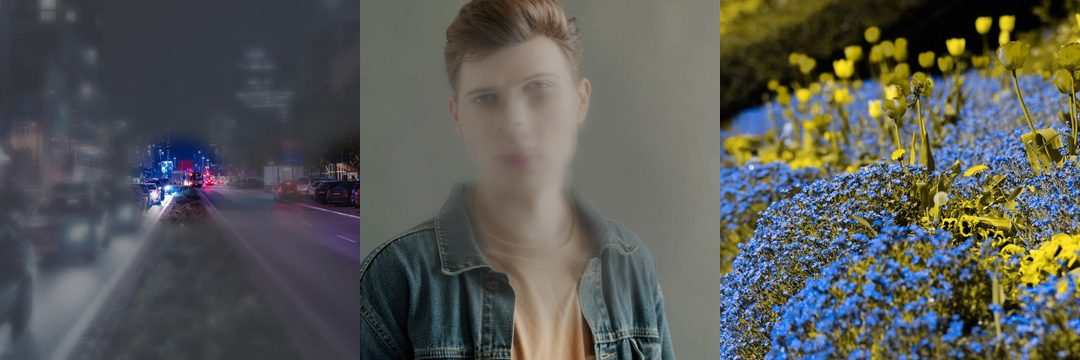
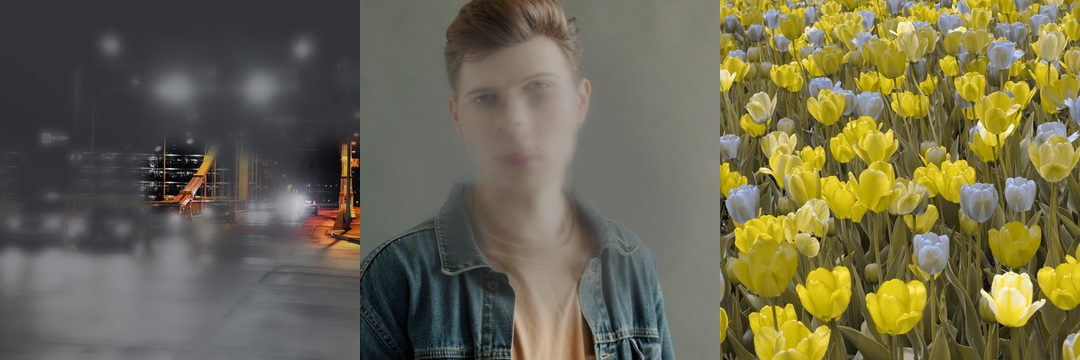
Vision Simulator UI v2: new Night Street and Color Garden samples, About credits
- night-street.jpg: "Road Lights" by Justin Hamilton (StockSnap, CC0), 2376x1584
- garden.jpg: "A Field of Tulips" by alex ohan (Pexels License), 2400x1600
- Sharp edge to edge (no soft tiles on a 6x4 Laplacian grid); replaces the half-blurry garden
- Dedicated 120x96 sample thumbnails; About sheet credits the photos
- pro-hero.jpg regenerated from the new samples

diff --git a/vision-simulator/index.html b/vision-simulator/index.html
@@ -564,6 +564,7 @@
   html.ui2 .sheet-panel p.sheet-body { font-size: 15px; line-height: 1.5; color: var(--ink); margin: 0 0 14px; }
   html.ui2 .sheet-note { font-size: 14px; line-height: 1.5; color: var(--ink-dim); background: rgba(255,255,255,0.05); border-radius: 12px; padding: 12px 14px; margin: 0 0 16px; }
   html.ui2 .sheet-note strong { color: var(--ink); }
+  html.ui2 .sheet-credits { margin: 16px 2px 0; font-size: 12px; line-height: 1.45; color: var(--ink-dim); }
   html.ui2 .sheet-list { border-radius: 12px; background: rgba(255,255,255,0.05); overflow: hidden; }
   html.ui2 .sheet-list a, html.ui2 .sheet-list button { display: flex; align-items: center; justify-content: space-between; width: 100%; min-height: 48px; padding: 0 14px;
     appearance: none; border: none; background: none; color: var(--ink); font: 400 16px var(--ui-font); text-decoration: none; text-align: left; cursor: pointer; }
@@ -684,7 +685,7 @@
         Reading
       </button>
       <button class="btn ghost" data-sample="garden">
-        <img class="sample-thumb" src="samples/garden.jpg" alt="" style="object-position:center bottom;">
+        <img class="sample-thumb" src="samples/garden-thumb.jpg" alt="">
         Color Garden
       </button>
       <button class="btn ghost" data-sample="chart">
@@ -692,7 +693,7 @@
         Eye Chart
       </button>
       <button class="btn ghost" data-sample="street">
-        <img class="sample-thumb" src="samples/night-street.jpg" alt="" style="object-position:center 65%;">
+        <img class="sample-thumb" src="samples/night-street-thumb.jpg" alt="">
         Night Street
       </button>
       <button class="btn ghost" data-sample="face">
@@ -763,6 +764,7 @@
       <button type="button" id="aboutRestore">Restore Purchases <span class="chev" aria-hidden="true">›</span></button>
       <a href="https://rjlcevans.com/privacy" id="aboutPrivacy">Privacy Policy <span class="chev" aria-hidden="true">›</span></a>
     </div>
+    <p class="sheet-credits">Sample photos: Night Street by Justin Hamilton (StockSnap, CC0) · Color Garden by alex ohan (Pexels).</p>
   </div>
 </div>
 <div class="paywall-overlay" id="paywallOverlay" role="dialog" aria-modal="true" aria-label="Vision Simulator Pro">
